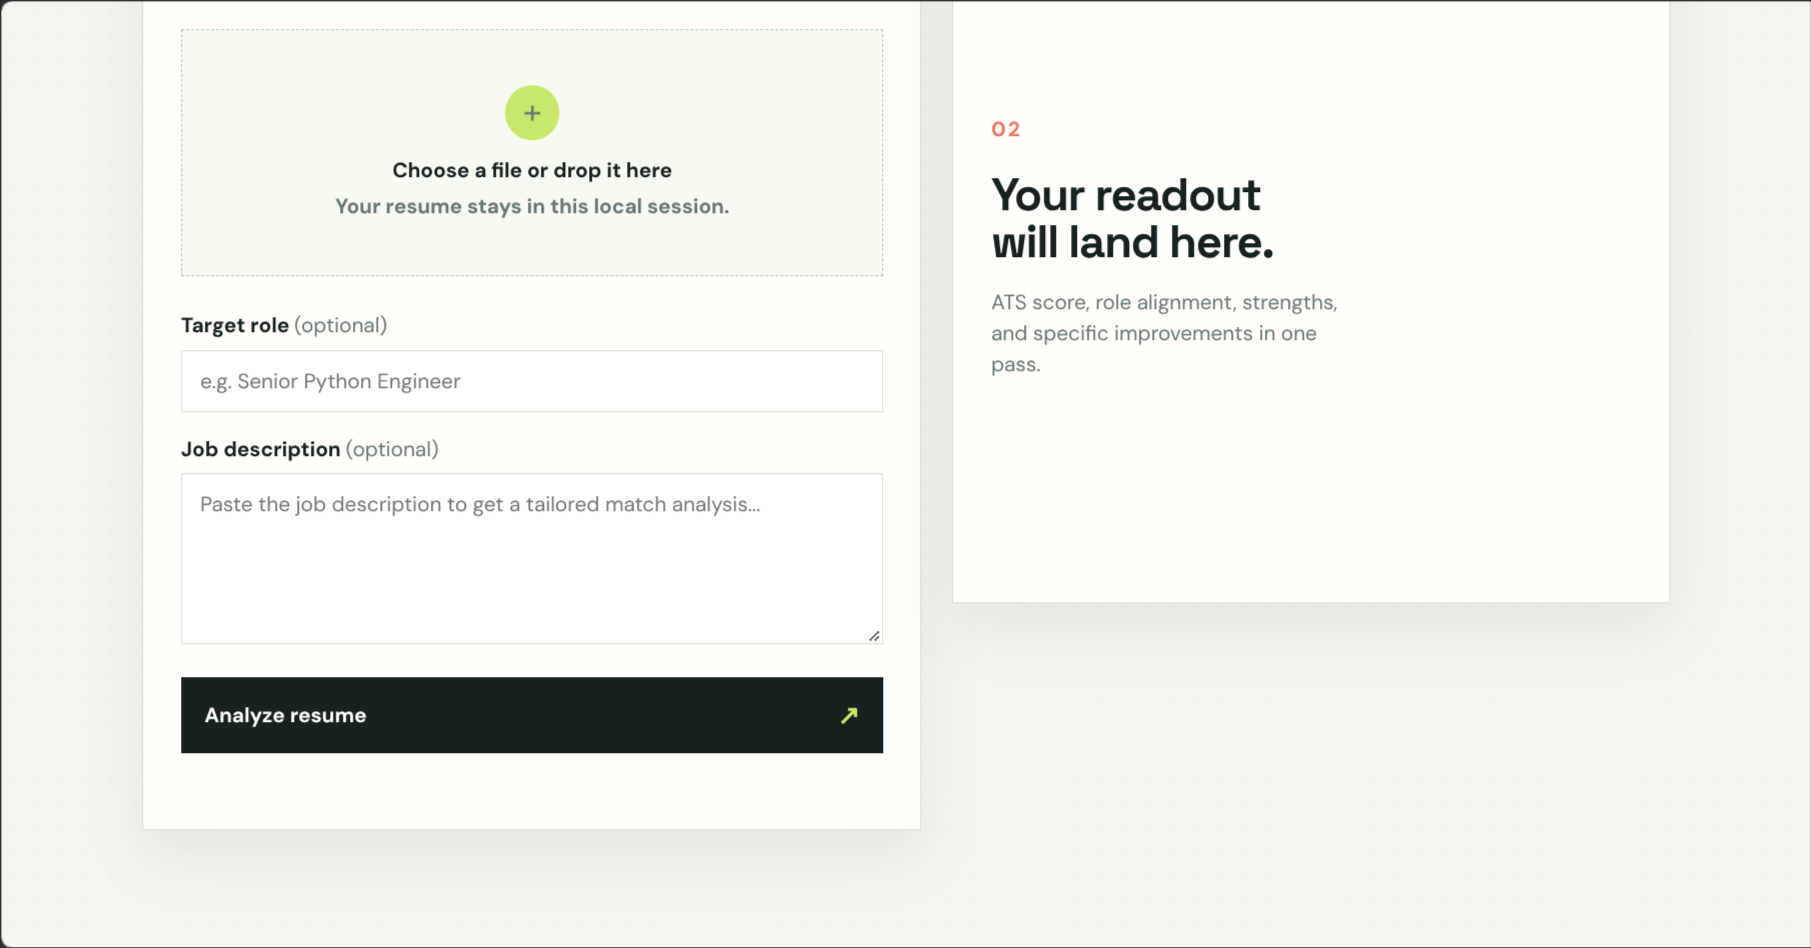
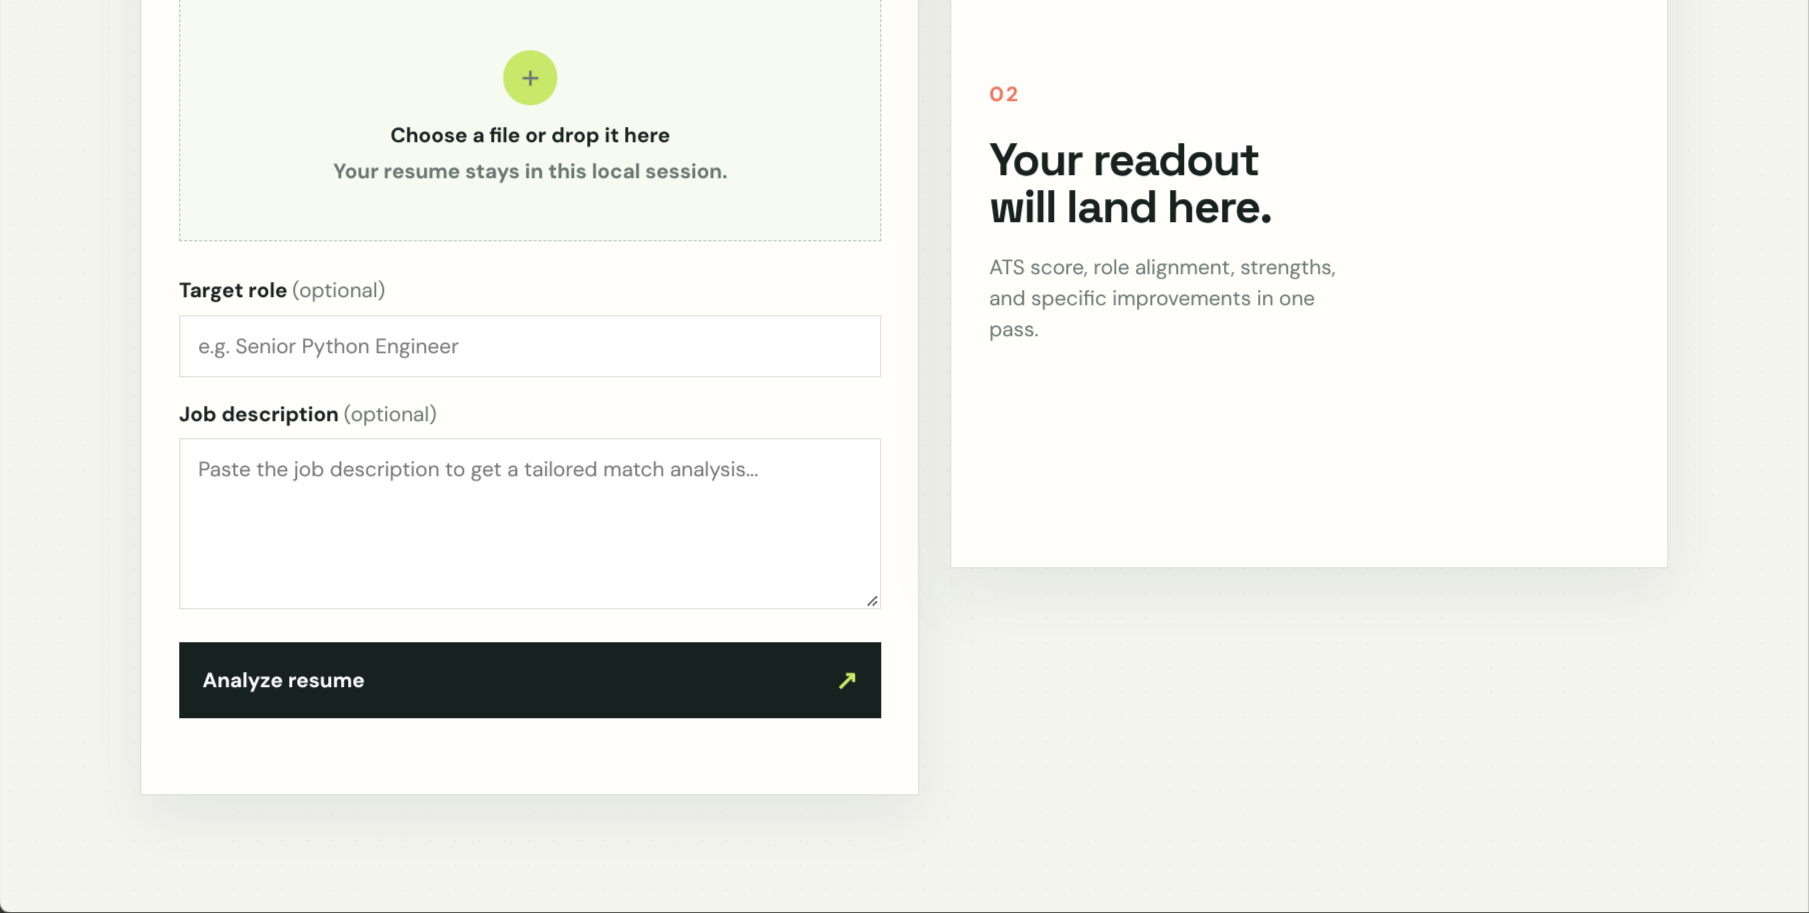
docs: correct demo GIF titles to Sample Resume Audit 1 and 2

diff --git a/README.md b/README.md
@@ -30,10 +30,13 @@ so tools receive the filename; offline mock always works with zero Azure keys).
 
 ![Resume Doctor Dashboard - Audit & Analysis Results](docs/assets/2.png)
 
-### Live Demo Animations
-![Resume Analysis Demo Part 1](docs/assets/resume_analysis.gif)
+### Live Demo Animations (Sample Resume Audits)
 
-![Resume Analysis Demo Part 2](docs/assets/resume_analysis2.gif)
+#### Sample Resume Audit 1
+![Resume Analysis Output - Sample Resume 1](docs/assets/resume_analysis.gif)
+
+#### Sample Resume Audit 2
+![Resume Analysis Output - Sample Resume 2](docs/assets/resume_analysis2.gif)
 
 ---
 
